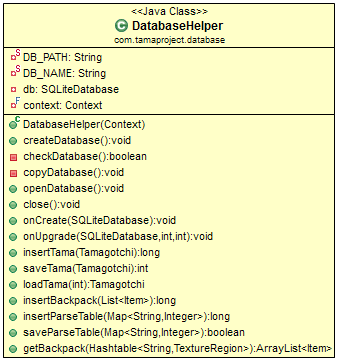
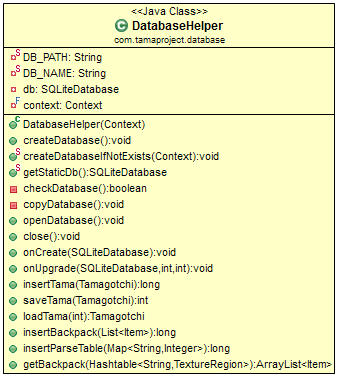
Fixed backpack saving and item thing

Changed region(s): [[0.0, 0.0, 1.0, 1.0]]

diff --git a/Tamagotchi Project/src/com/tamaproject/database/DatabaseHelper.java b/Tamagotchi Project/src/com/tamaproject/database/DatabaseHelper.java
@@ -289,7 +289,7 @@ public class DatabaseHelper extends SQLiteOpenHelper
      * @param id
      * @return a Tamagotchi object
      */
-    public Tamagotchi loadTama(int id)
+    public Tamagotchi loadTama(int id, Hashtable<String, TextureRegion> table)
     {
 	try
 	{
@@ -335,8 +335,7 @@ public class DatabaseHelper extends SQLiteOpenHelper
 		    int protection = c2.getInt(c2.getColumnIndex("protection"));
 		    int type = c2.getInt(c2.getColumnIndex("type"));
 		    String description = c2.getString(c2.getColumnIndex("description"));
-		    // TextureRegion textureRegion = table.get(cursor3.getString(cursor3.getColumnIndex(colFileName)));
-		    TextureRegion textureRegion = null;
+		    TextureRegion textureRegion = table.get(c3.getString(c3.getColumnIndex("filename")));
 
 		    equippedItem = new Item(0, 0, textureRegion, equippedItemName, description, health, hunger, sickness, xp, type, protection);
 		}
@@ -387,6 +386,8 @@ public class DatabaseHelper extends SQLiteOpenHelper
      */
     public long insertParseTable(Map<String, Integer> table)
     {
+	db.delete("Backpack", null, null);
+
 	Iterator it = table.entrySet().iterator();
 	ContentValues bp = new ContentValues();
 	long success = 0;

diff --git a/Tamagotchi Project/src/com/tamaproject/MainGame.java b/Tamagotchi Project/src/com/tamaproject/MainGame.java
@@ -736,7 +736,7 @@ public class MainGame extends BaseAndEngineGame implements IOnSceneTouchListener
      */
     private void loadTama(final int centerX, final int centerY)
     {
-	Tamagotchi tempTama = dbHelper.loadTama(1);
+	Tamagotchi tempTama = dbHelper.loadTama(1, listTR);
 	if (tempTama != null)
 	{
 	    Debug.d("Tama loaded from database!");
@@ -745,6 +745,11 @@ public class MainGame extends BaseAndEngineGame implements IOnSceneTouchListener
 	    this.tama.setSprite(new AnimatedSprite(centerX, centerY, this.mTamaTextureRegion));
 	    ((AnimatedSprite) this.tama.getSprite()).animate(new long[] { 300, 300, 300 }, 0, 2, true);
 	    this.tama.getSprite().setScale(1.00f);
+	    if(this.tama.getEquippedItem()!=null)
+	    {
+		this.tama.getEquippedItem().setPosition(tama.getSprite().getBaseWidth() - 25, tama.getSprite().getBaseHeight() - 25);
+		tama.getSprite().attachChild(this.tama.getEquippedItem());
+	    }
 	}
 
 	if (firstRun)
